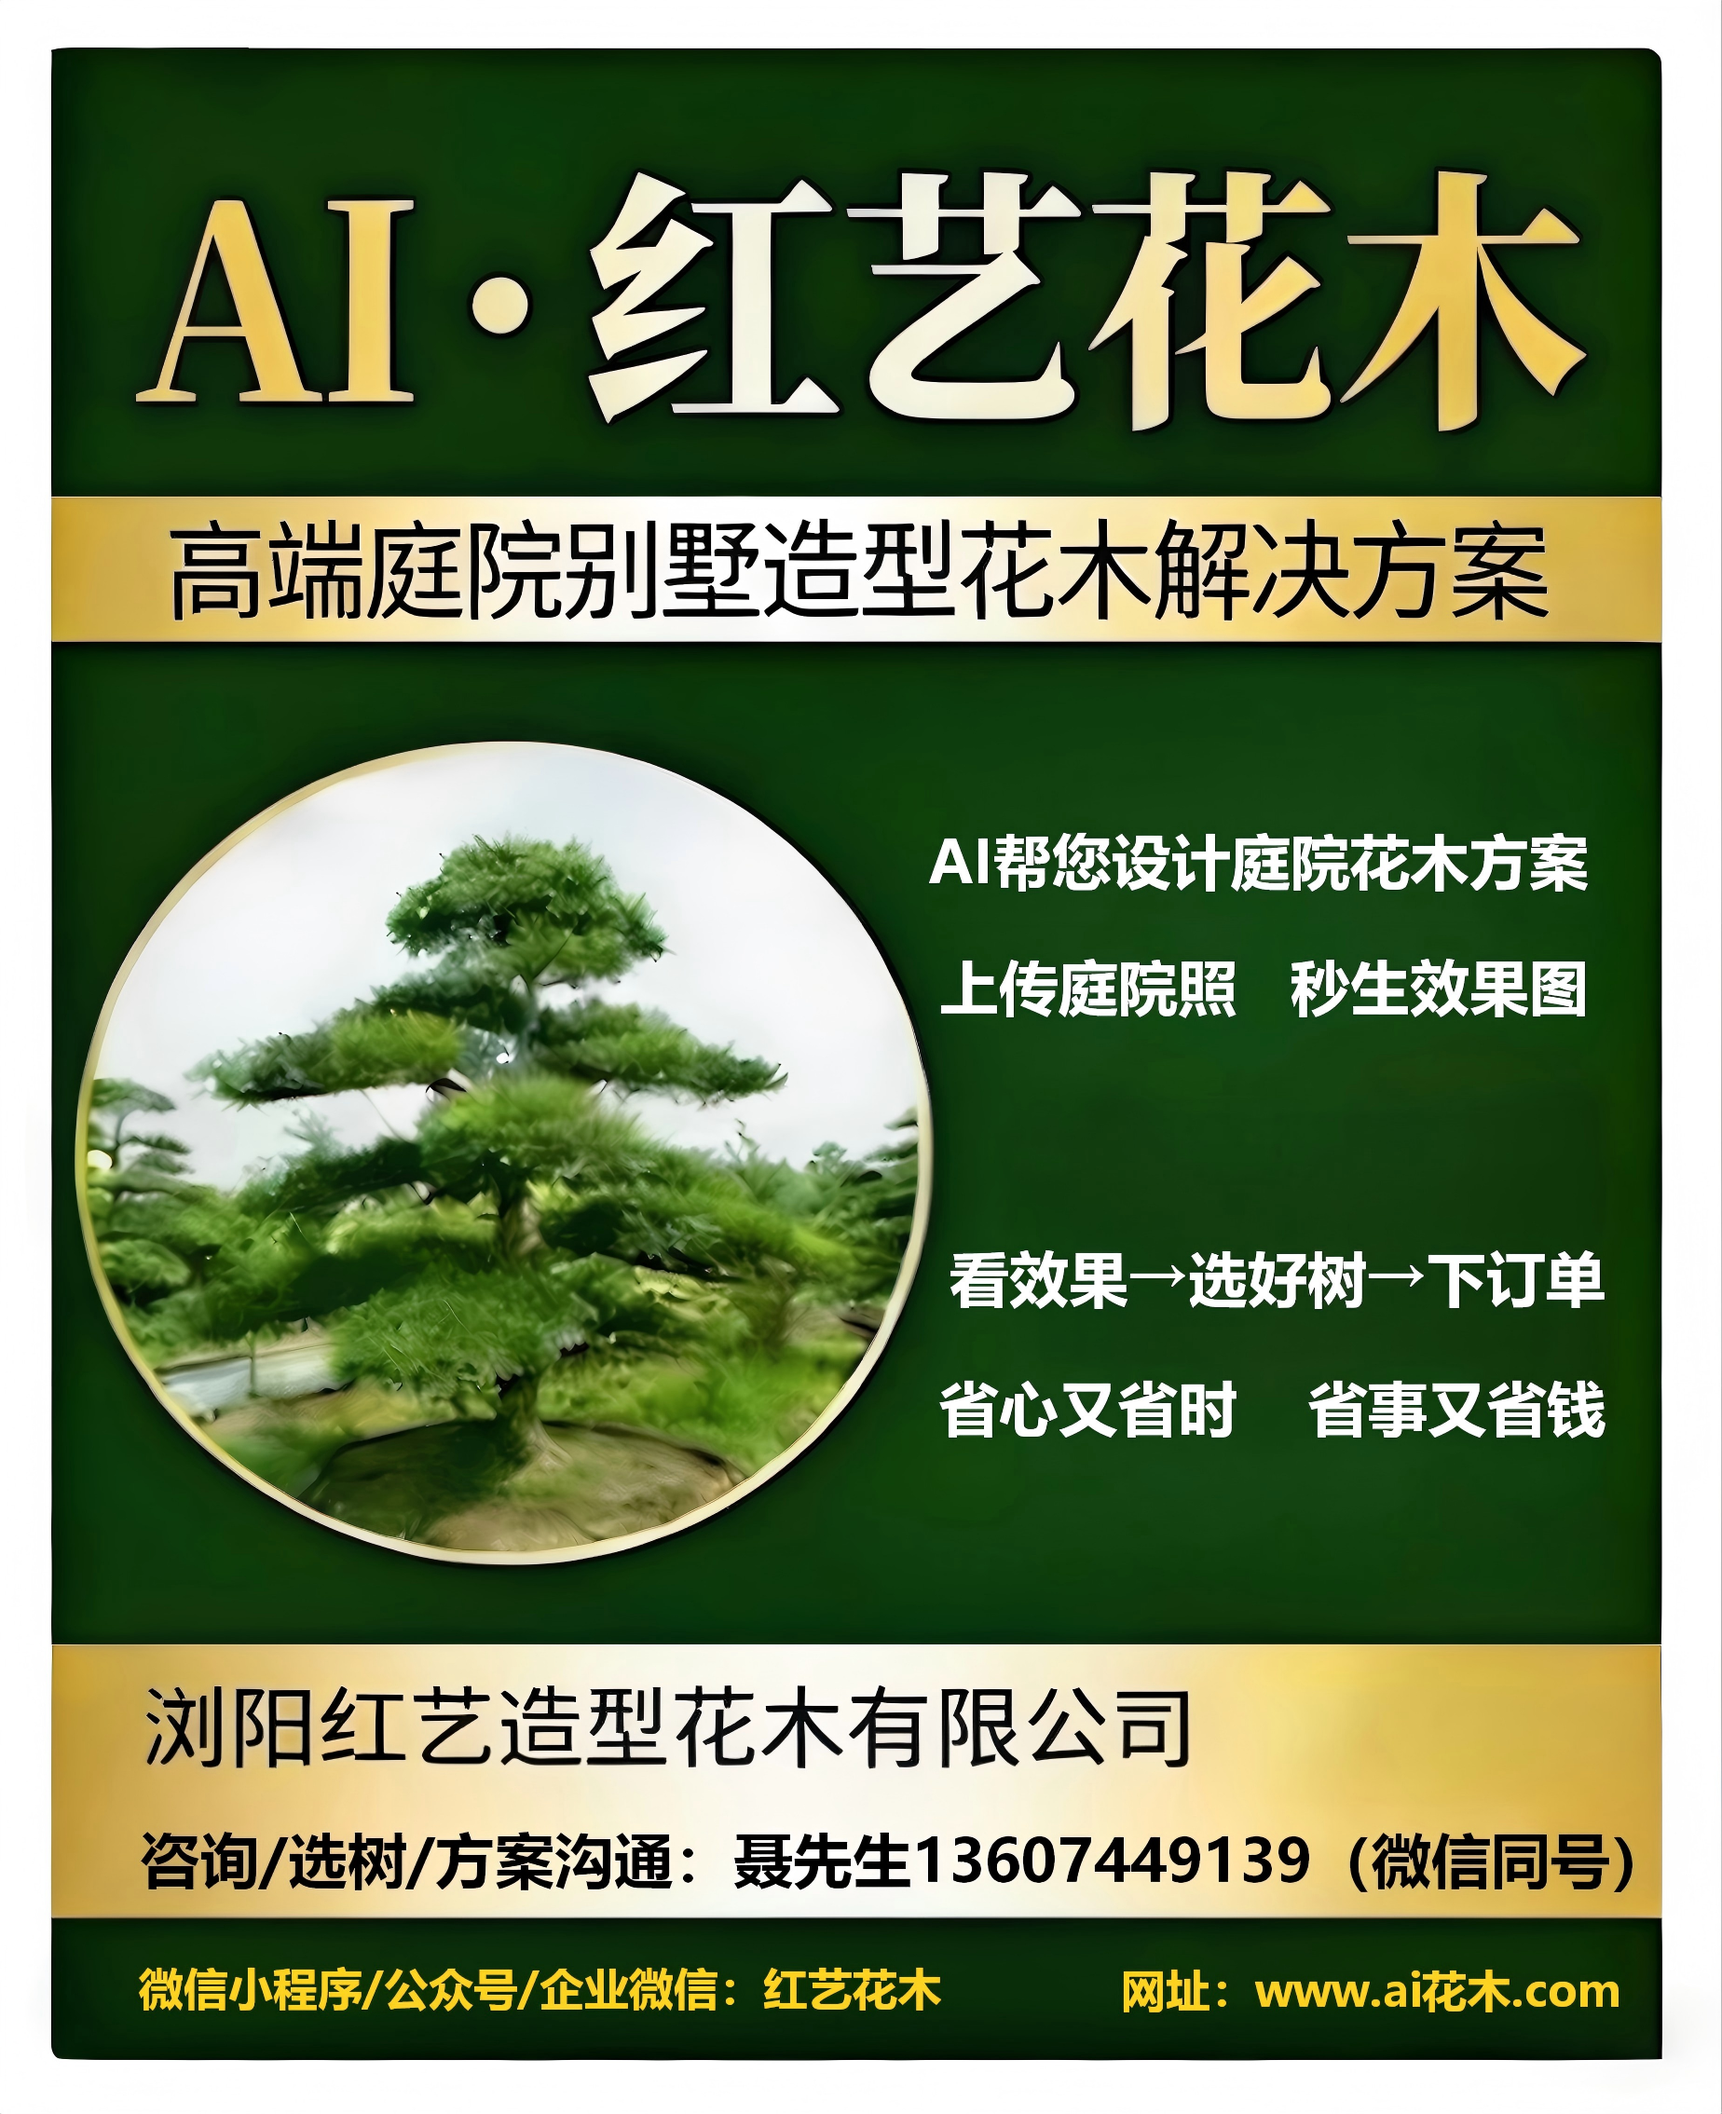
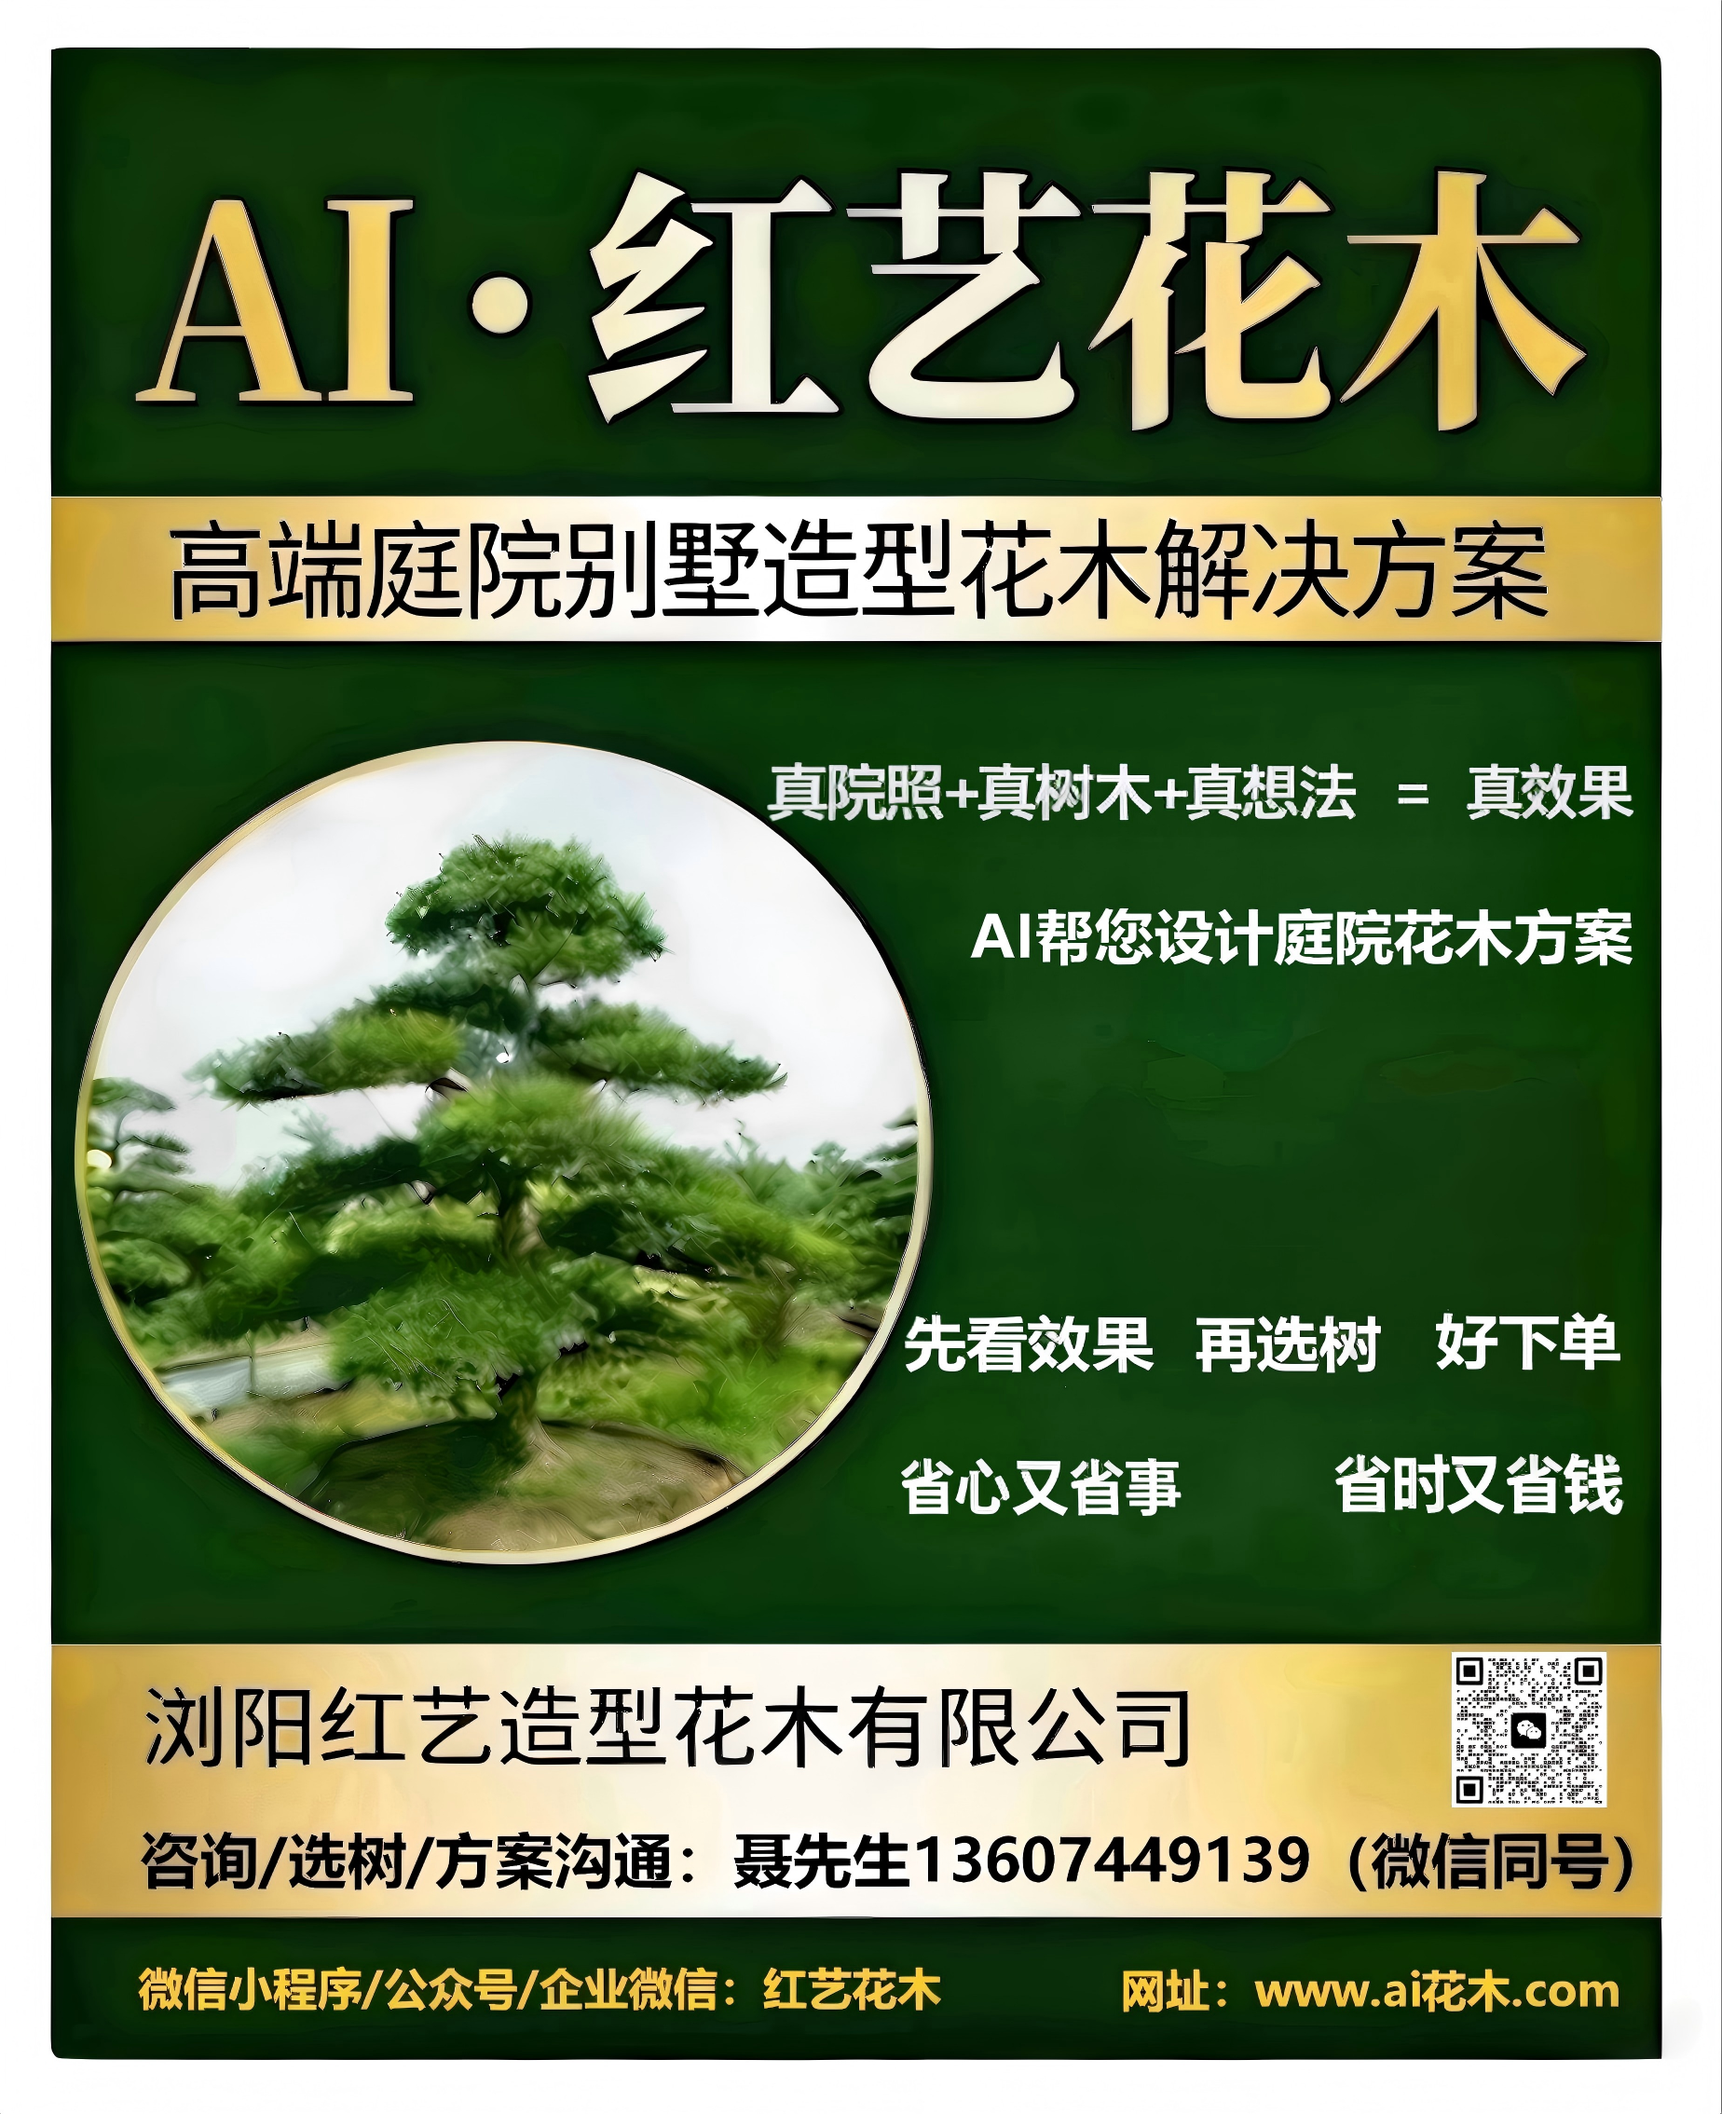
fix: improve AI composition quality + update hero poster
Root cause fixes for chaotic tree composition:
- Tighter oval mask (30%/40% radii, was 38%/46%) with steeper fade
- Add overlap detection: push overlapping trees apart automatically
- Better perspective scaling (0.55+0.9x curve for real depth)
- Relax BiRefNet circuit breaker (3 failures, was 1)
- Increase shadow opacity (0.40, was 0.25)
- Increase mask blur (6%, was 4%)

Replace hero poster with new version (真院照+真树木+真想法=真效果)

diff --git a/apps/server/src/services/tree-composite.service.ts b/apps/server/src/services/tree-composite.service.ts
@@ -167,8 +167,8 @@ async function downloadFalResult(imageUrl: string): Promise<Buffer> {
 // Aggressive: open after just 1 failure (BiRefNet is consistently unreliable from China)
 let birefnetFailCount = 0;
 let birefnetLastSuccess = 0;
-const BIREFNET_MAX_FAILS = 1; // Open circuit after just 1 failure (was 3)
-const BIREFNET_COOLDOWN_MS = 10 * 60 * 1000; // 10 min cooldown (was 5 min)
+const BIREFNET_MAX_FAILS = 3; // Open circuit after 3 failures (was 1 — too aggressive)
+const BIREFNET_COOLDOWN_MS = 5 * 60 * 1000; // 5 min cooldown
 
 /**
  * Remove background from a tree image using fal.ai BiRefNet.
@@ -399,9 +399,9 @@ async function createOvalMaskOverlay(
   sharp: any, resizedBuf: Buffer, w: number, h: number,
 ): Promise<Buffer> {
   const cx = w / 2;
-  const cy = h * 0.42; // center slightly above middle (tree crown is usually top-heavy)
-  const rx = w * 0.38;  // horizontal radius: 38% of width
-  const ry = h * 0.46;  // vertical radius: 46% of height (taller than wide)
+  const cy = h * 0.40; // center slightly above middle (tree crown is usually top-heavy)
+  const rx = w * 0.30;  // horizontal radius: 30% of width (was 38% — tighter to cut more background)
+  const ry = h * 0.40;  // vertical radius: 40% of height (was 46% — tighter)
 
   const maskData = Buffer.alloc(w * h);
 
@@ -413,11 +413,11 @@ async function createOvalMaskOverlay(
       const dist = Math.sqrt(dx * dx + dy * dy);
 
       let alpha: number;
-      if (dist <= 0.65) {
-        alpha = 255; // fully opaque core
-      } else if (dist <= 1.0) {
-        // Smooth cosine falloff from 0.65 to 1.0
-        const t = (dist - 0.65) / 0.35;
+      if (dist <= 0.50) {
+        alpha = 255; // fully opaque core (was 0.65 — tighter core)
+      } else if (dist <= 0.85) {
+        // Steep cosine falloff from 0.50 to 0.85 (was 0.65-1.0 — faster fade)
+        const t = (dist - 0.50) / 0.35;
         alpha = Math.round(255 * (0.5 + 0.5 * Math.cos(Math.PI * t)));
       } else {
         alpha = 0; // fully transparent outside
@@ -429,7 +429,7 @@ async function createOvalMaskOverlay(
 
   // Heavy gaussian blur on the mask for very soft, natural edges
   const maskImg = await sharp(maskData, { raw: { width: w, height: h, channels: 1 } })
-    .blur(Math.max(3, Math.round(Math.min(w, h) * 0.04))) // 4% of image size, min 3px
+    .blur(Math.max(5, Math.round(Math.min(w, h) * 0.06))) // 6% of image size, min 5px (was 4%/3px)
     .png()
     .toBuffer();
 
@@ -503,9 +503,9 @@ export async function compositeTreesOnGarden(options: {
       const treeImgBuf = await readTreeImage(tree.imageUrl);
       console.log(`[TreeComposite] Tree ${idx + 1} image: ${treeImgBuf.length} bytes`);
 
-      // Perspective scaling: trees further away (smaller y) appear slightly smaller
-      const perspectiveScale = 0.75 + (tree.y - 0.5) * 0.5;
-      const clampedScale = Math.max(0.7, Math.min(1.0, perspectiveScale));
+      // Perspective scaling: trees further away (smaller y) appear noticeably smaller
+      const perspectiveScale = 0.55 + (tree.y - 0.5) * 0.9; // steeper curve for better depth
+      const clampedScale = Math.max(0.5, Math.min(1.0, perspectiveScale));
 
       const rawTreeW = Math.max(40, Math.round(tree.width * baseW));
       const rawTreeH = Math.max(60, Math.round(tree.height * baseH));
@@ -569,7 +569,7 @@ export async function compositeTreesOnGarden(options: {
         `<svg width="${shadowW}" height="${shadowH}">
           <defs>
             <radialGradient id="sg${idx}" cx="50%" cy="50%" rx="50%" ry="50%">
-              <stop offset="0%" stop-color="black" stop-opacity="0.25"/>
+              <stop offset="0%" stop-color="black" stop-opacity="0.40"/>
               <stop offset="100%" stop-color="black" stop-opacity="0"/>
             </radialGradient>
           </defs>

diff --git a/apps/server/src/services/int-transformer.service.ts b/apps/server/src/services/int-transformer.service.ts
@@ -312,7 +312,44 @@ function matchAndEnrichPlacements(
     });
   }
 
-  return placements.slice(0, 5);
+  // Resolve overlaps: push overlapping trees apart
+  return resolveOverlaps(placements.slice(0, 5));
+}
+
+/**
+ * Detect and resolve overlapping tree placements.
+ * If two trees overlap horizontally, push them apart symmetrically.
+ */
+function resolveOverlaps(placements: DesignPlan['placements']): DesignPlan['placements'] {
+  if (placements.length < 2) return placements;
+
+  const MIN_GAP = 0.05; // Minimum horizontal gap between tree edges
+  const result = [...placements];
+
+  // Sort by x for easier overlap detection
+  result.sort((a, b) => a.x - b.x);
+
+  for (let i = 0; i < result.length - 1; i++) {
+    for (let j = i + 1; j < result.length; j++) {
+      const a = result[i];
+      const b = result[j];
+
+      // Check horizontal overlap: tree edges = [x - width/2, x + width/2]
+      const aRight = a.x + a.width / 2;
+      const bLeft = b.x - b.width / 2;
+      const overlap = aRight + MIN_GAP - bLeft;
+
+      if (overlap > 0) {
+        // Push apart symmetrically
+        const shift = overlap / 2 + 0.02;
+        result[i] = { ...a, x: Math.max(0.08, a.x - shift) };
+        result[j] = { ...b, x: Math.min(0.92, b.x + shift) };
+        console.log(`[inT] Overlap resolved: ${a.treeName}(x=${a.x.toFixed(2)}) ↔ ${b.treeName}(x=${b.x.toFixed(2)}) → ${result[i].x.toFixed(2)} / ${result[j].x.toFixed(2)}`);
+      }
+    }
+  }
+
+  return result;
 }
 
 function findTreeByName(aiName: string, trees: IntInput['selectedTrees']) {
